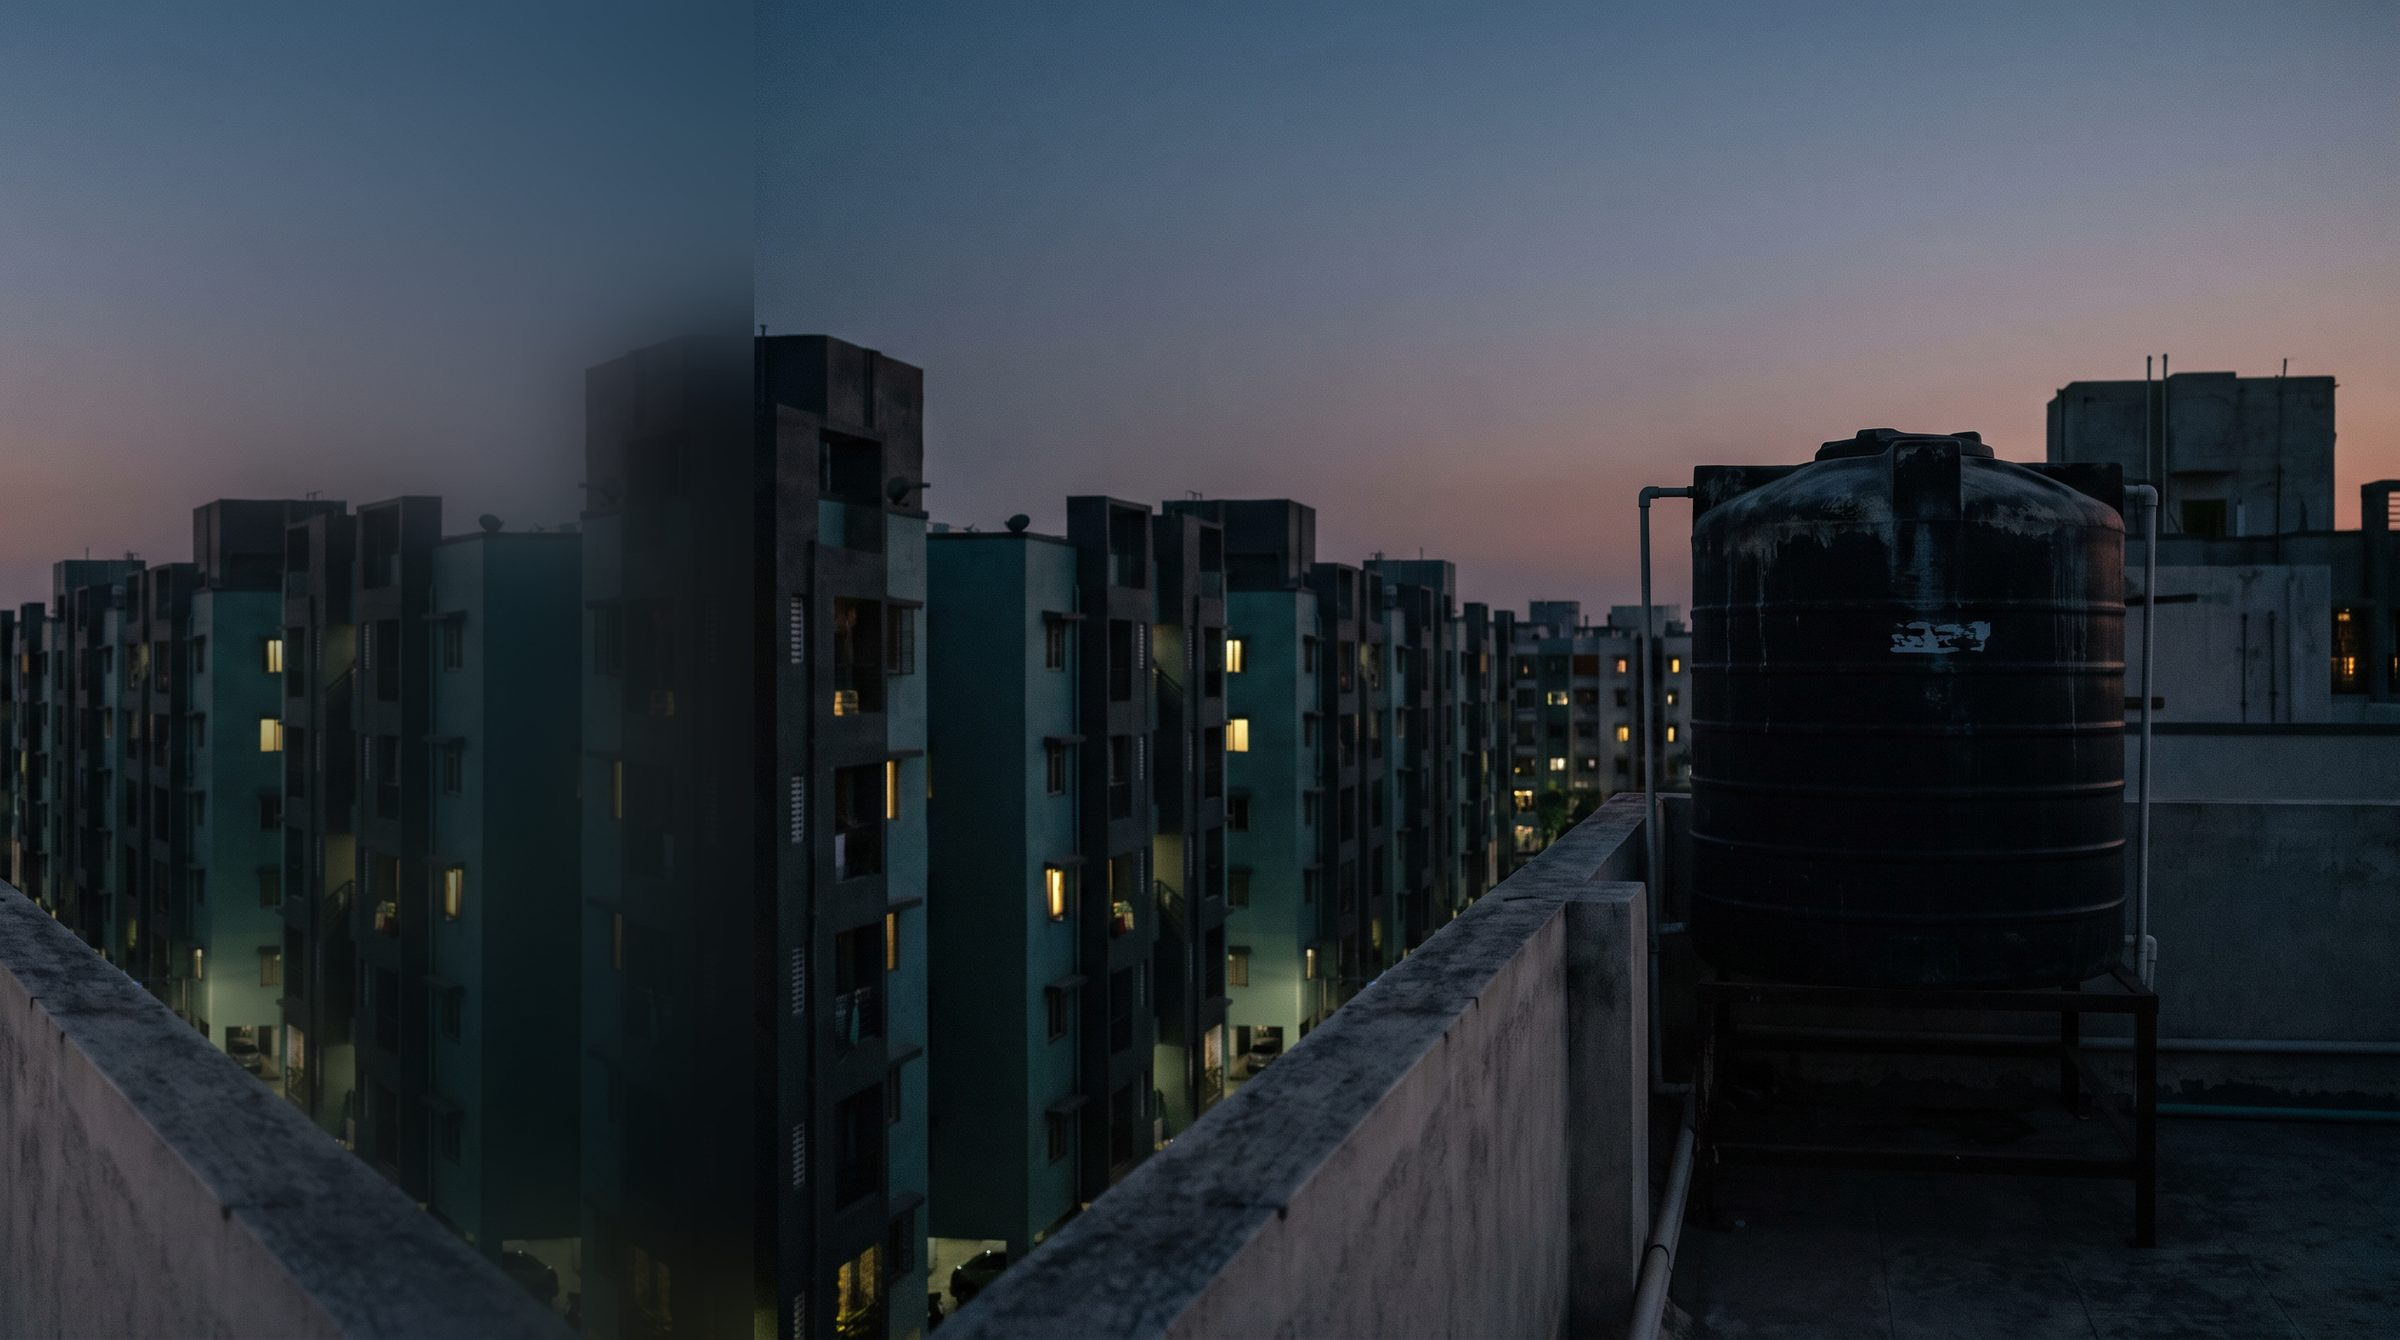
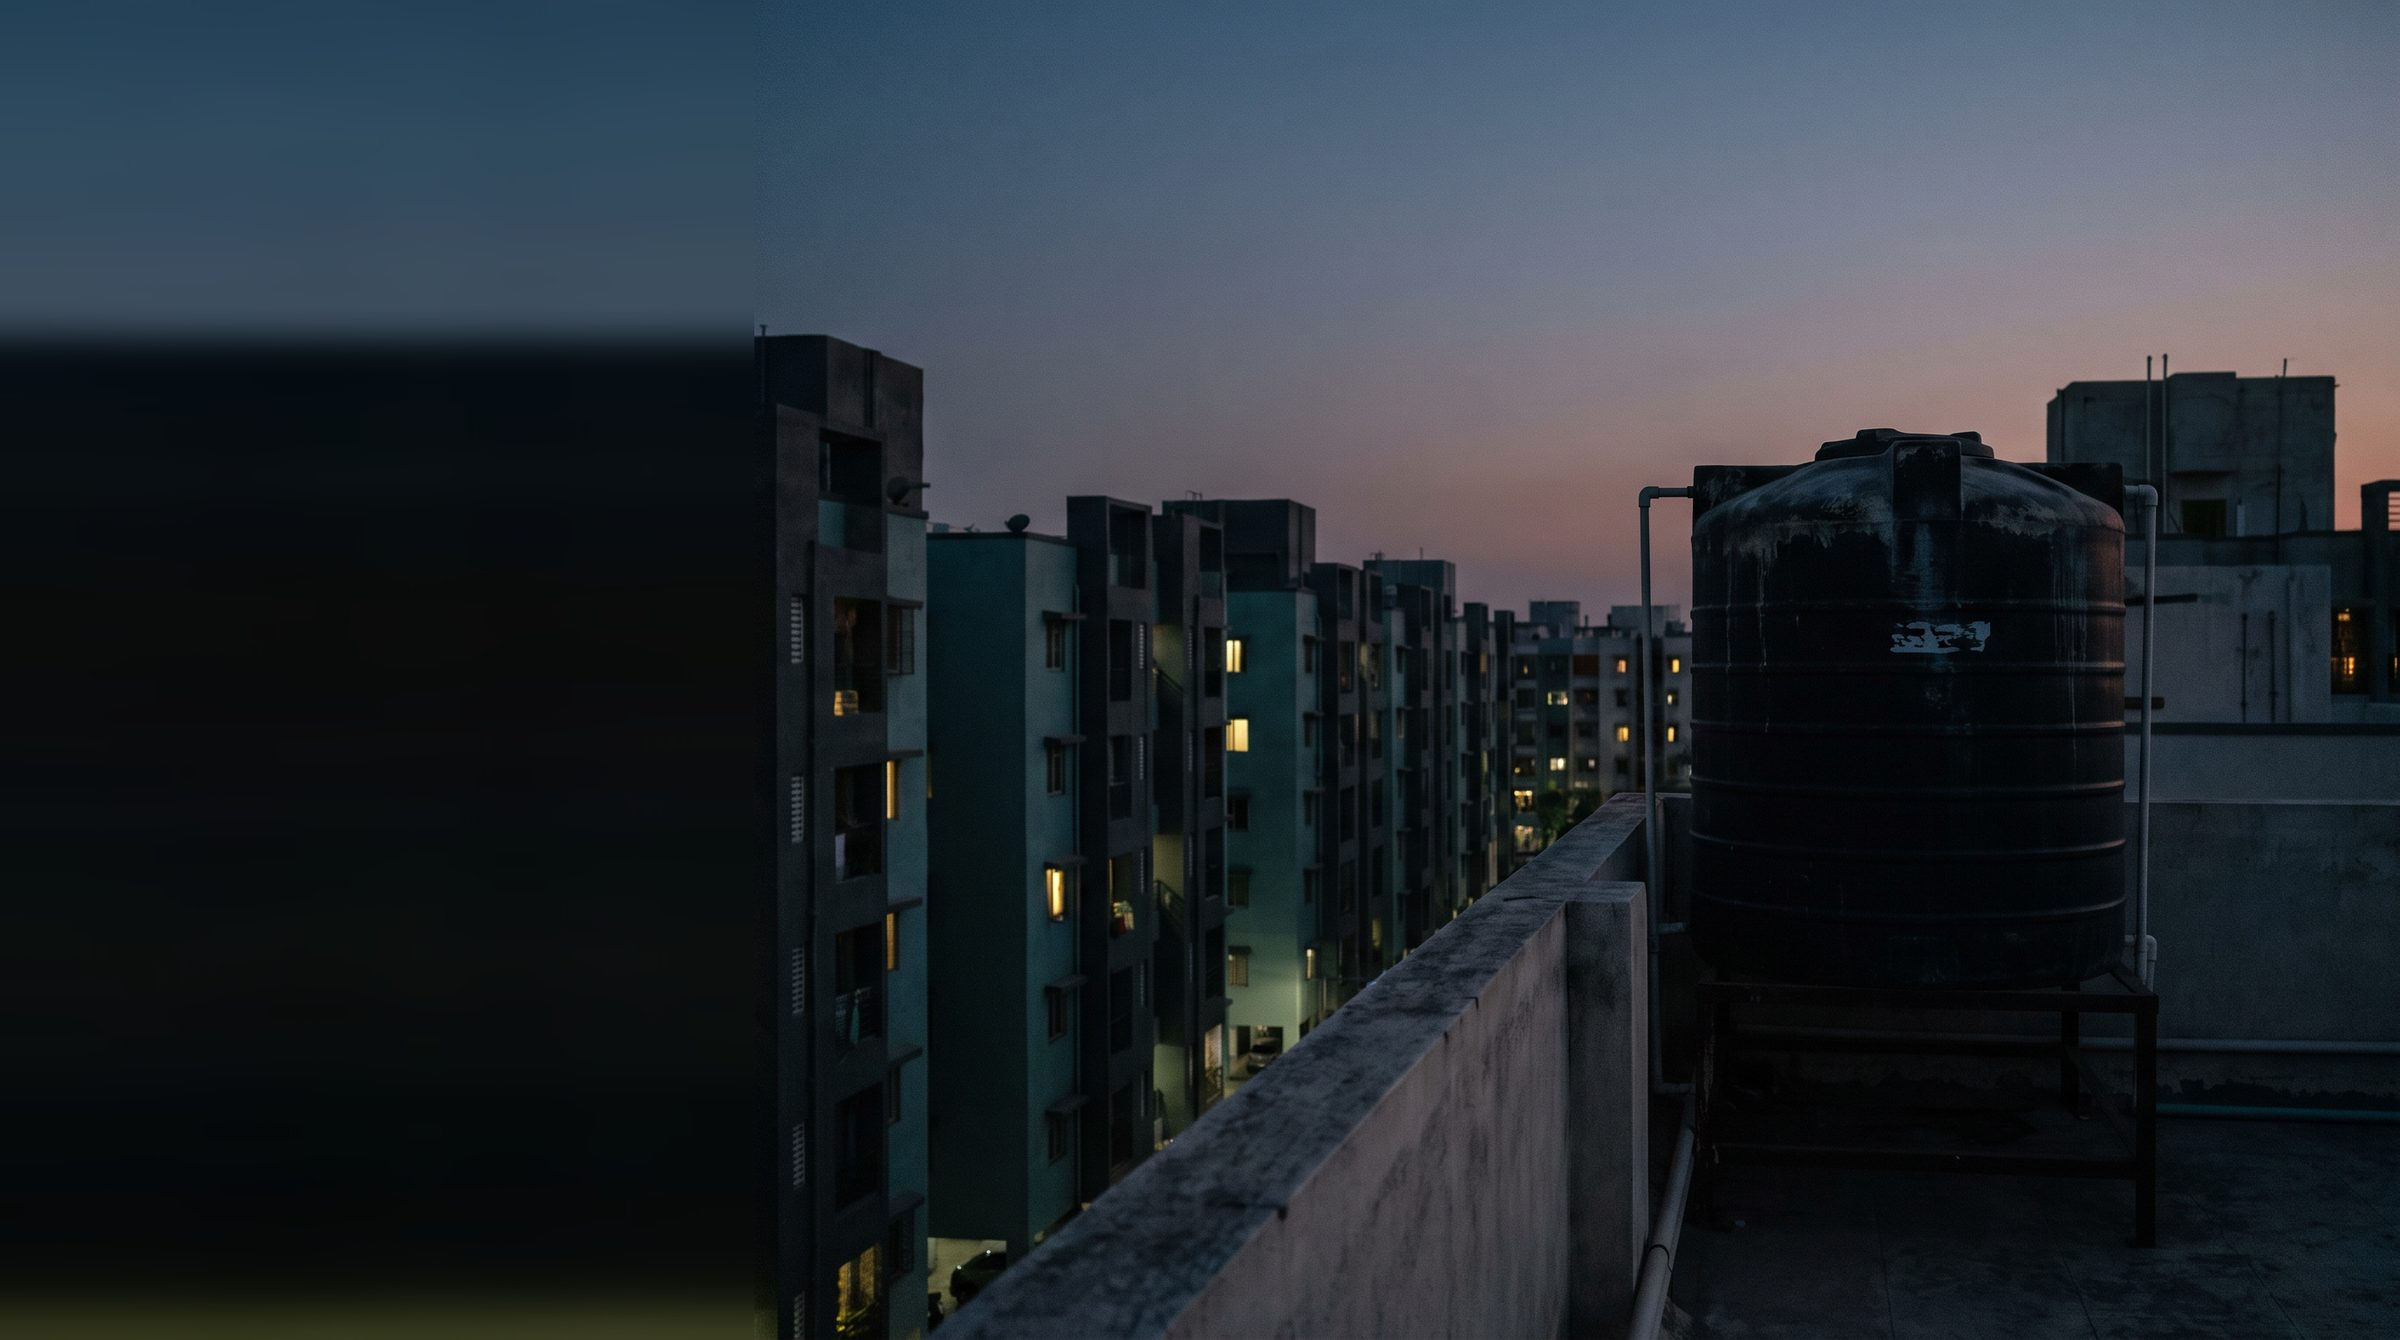
Replace the mirrored hero padding with an edge stretch
The mirror was visible as a mirror: blur was ramped to zero at the join, so
a sharp reflected copy of the scene sat right beside the seam. Continuity is
what the join needs, not sharpness.

Now an 8px sliver at the join is flipped and stretched across the left
region, then lightly blurred - identical continuity, but 8px stretched over
900px leaves no symmetry to read. Contrast unchanged at 0/98 failures,
tightest margin 1.27x.

Changed region(s): [[0.0, 0.0, 0.3125, 1.0]]

diff --git a/docs/ARCHITECTURE.md b/docs/ARCHITECTURE.md
@@ -573,13 +573,20 @@ delta, and clearly visible through the scrim. Cropping it off was the obvious
 fix and the wrong one — it drags the subject out of the right third and puts it
 behind the headline.
 
-The fix is **mirror padding**: the photo is reflected back across the seam, so
-the column left of the join is the same pixel data as the column right of it and
-there is no discontinuity at all, then blurred on a ramp toward the left edge.
-If new artwork ever shows a seam, that is the routine — and note the boundary is
-not one column: `home-automation` had a 16 px flat stripe between panel and
-photograph, so mirroring from the apparent edge left a residue. Find the first
-genuinely photographic column, not the first strong edge.
+The fix is an **edge stretch**: an 8 px sliver at the join is flipped and
+resized across the whole left region, then lightly blurred. Flipping makes the
+column left of the join identical to the column right of it, so continuity is
+exact; stretching 8 px over ~900 px leaves no symmetry to notice.
+
+This started as a *mirror* pad — reflecting the whole photo back — with the
+blur ramped to zero at the join. That was wrong and visible: right beside the
+seam sat a sharp mirrored copy of the scene, and the reflection read plainly as
+a reflection. Blur ramped the wrong way is the trap; the join needs continuity,
+not sharpness.
+
+Note the boundary is not one column: `home-automation` had a 16 px flat stripe
+between panel and photograph, so working from the apparent edge left a residue.
+Find the first genuinely photographic column, not the first strong edge.
 
 **The scrim is measured, not estimated.** The flat floor is `bg-band/65` on
 mobile against `sm:bg-band/25` on desktop. That is a layout difference, not a
